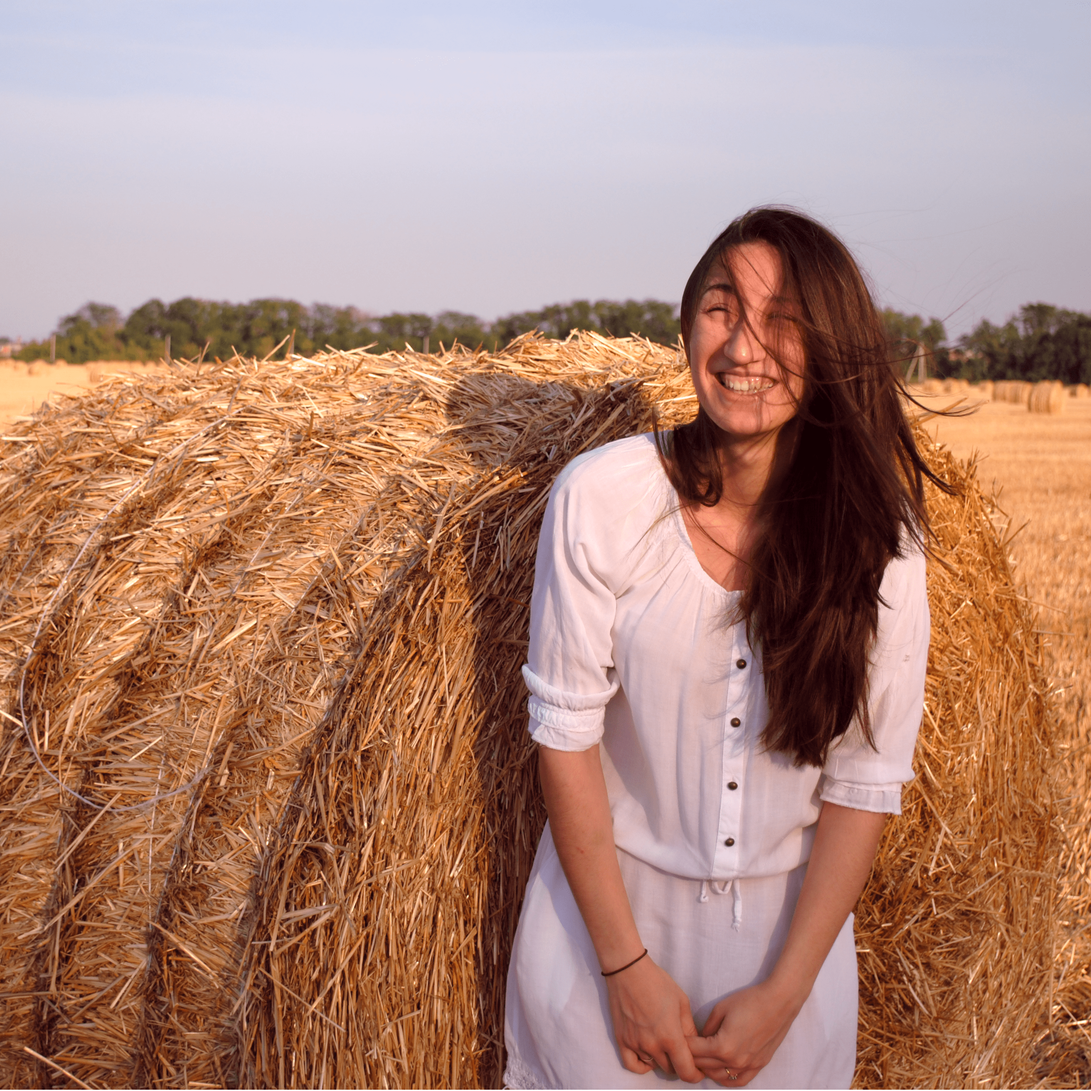
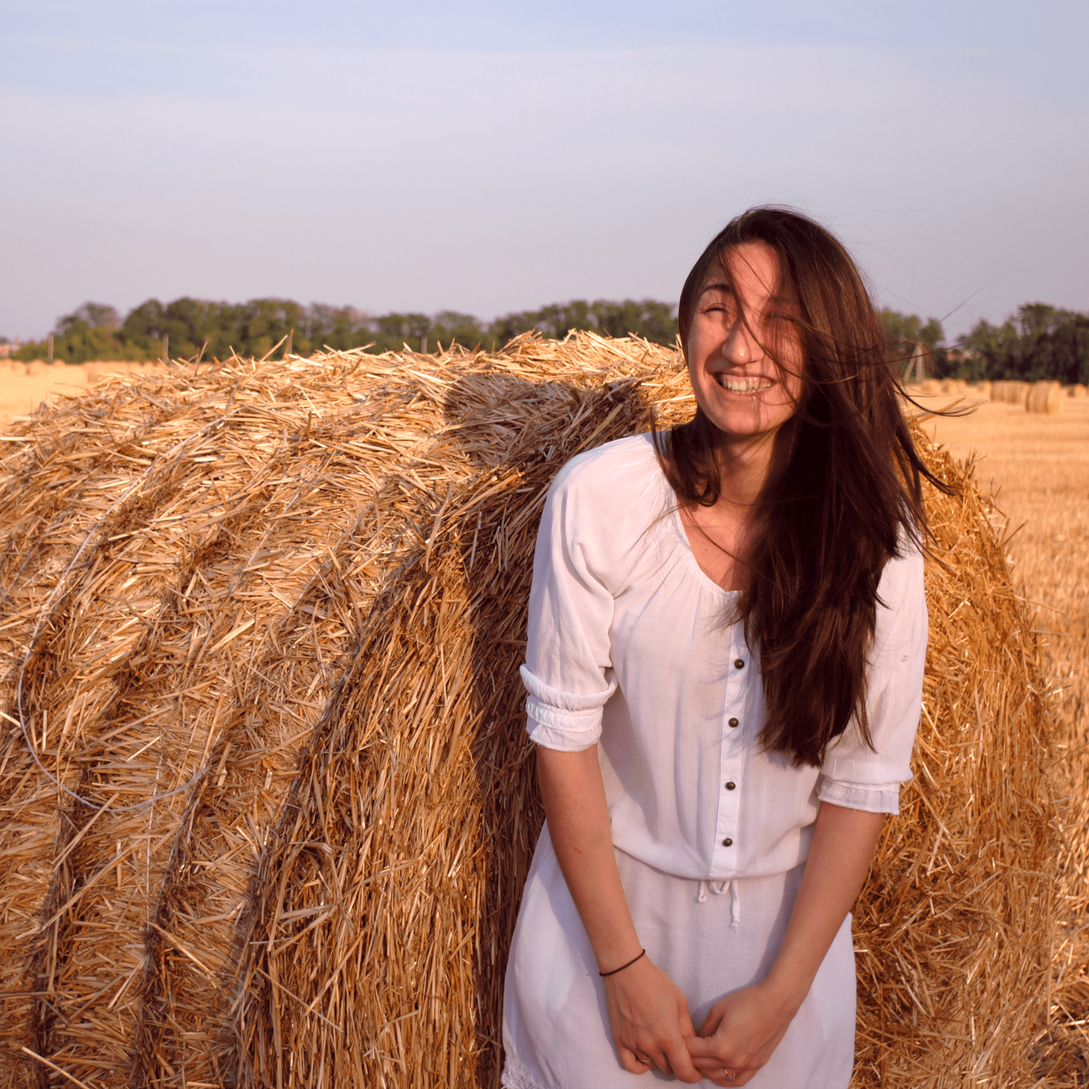
Make responsive design, recrop and recompress the photo.

diff --git a/style.css b/style.css
@@ -29,7 +29,7 @@ body {
 }
 
 .photo {
-	width: 100%;
+	width: auto;
 	height: 100%;	
 	overflow: hidden;
 }
@@ -41,7 +41,6 @@ body {
 }
 
 .text {
-	float: relative;
 	height: 80%;
 	width: 80%;
 	margin-left: 5%;
@@ -111,6 +110,7 @@ body {
 	text-align: center;
 }
 
+/*skill-bars*/
 {box-sizing:border-box}
 
 .container {
@@ -188,3 +188,95 @@ body {
 	width: 45%;
 	animation: selenium 1s ease-out;
 }
+
+/*responsive*/
+@media screen and (max-width:1024px) {
+	
+	html, body {
+		position: relative;
+		height: 100%;
+		width: 100%;
+	}
+	
+	.left-half {
+		position: fixed;
+		width: 100%;
+		height: 50%;	
+		overflow: hidden;
+	}
+	
+	.photo {
+		position: absolute;
+		width: 100%;
+		height: auto;	
+		overflow: hidden;	
+	}
+	
+	.carousel {
+		position: fixed;
+		width: 100%;
+		top: 50%;
+		height: 50%;
+	}
+	
+	.right-half {
+		position: absolute;
+		width: 90%;
+		height: 100%;
+		margin-left: 5%;
+		margin-right: 5%;
+	}	
+	
+	.text {
+		overflow: scroll;
+		margin-top: 15px;
+		padding: 0px;
+		width: 90%;
+		height: 100%;
+		margin-left: 5%;
+		margin-right: 5%;
+	}
+	
+	.prev, .next {
+		position: fixed;
+		top: 53%;
+	}
+	
+	.text__header {
+		color: #6A3327;
+		font-family: text__header;
+		font-size: 3.5em;
+		margin-bottom: 15px;
+		text-align: center;
+	}
+
+	.text__paragraph {
+		color: #340F0F;
+		font-family: text__paragraph;
+		font-size: 2.25em;
+		margin-bottom: 3px;
+		text-align: justify; 
+	}
+	
+	.container {
+		width: 100%;
+	}
+	
+	.contacts {
+		text-align: center;
+	}
+	
+}
+
+
+
+	
+	
+	
+	
+	
+	
+	
+	
+	
+	

diff --git a/index.html b/index.html
@@ -21,9 +21,7 @@
 		<br><br>
 		I'm interested in frontend development because it's essential for me to create something and make valuable things, both and to learn something new and improve yourself.
 		<br><br>
-		Besides IT I'm passionate with calligraphy and lettering, reading, running and riding a bike.
-		
-		</p>
+		Besides IT I'm passionate with calligraphy and lettering, reading, running and riding a bike.</p>
 				</div>
 			</div>
 			
